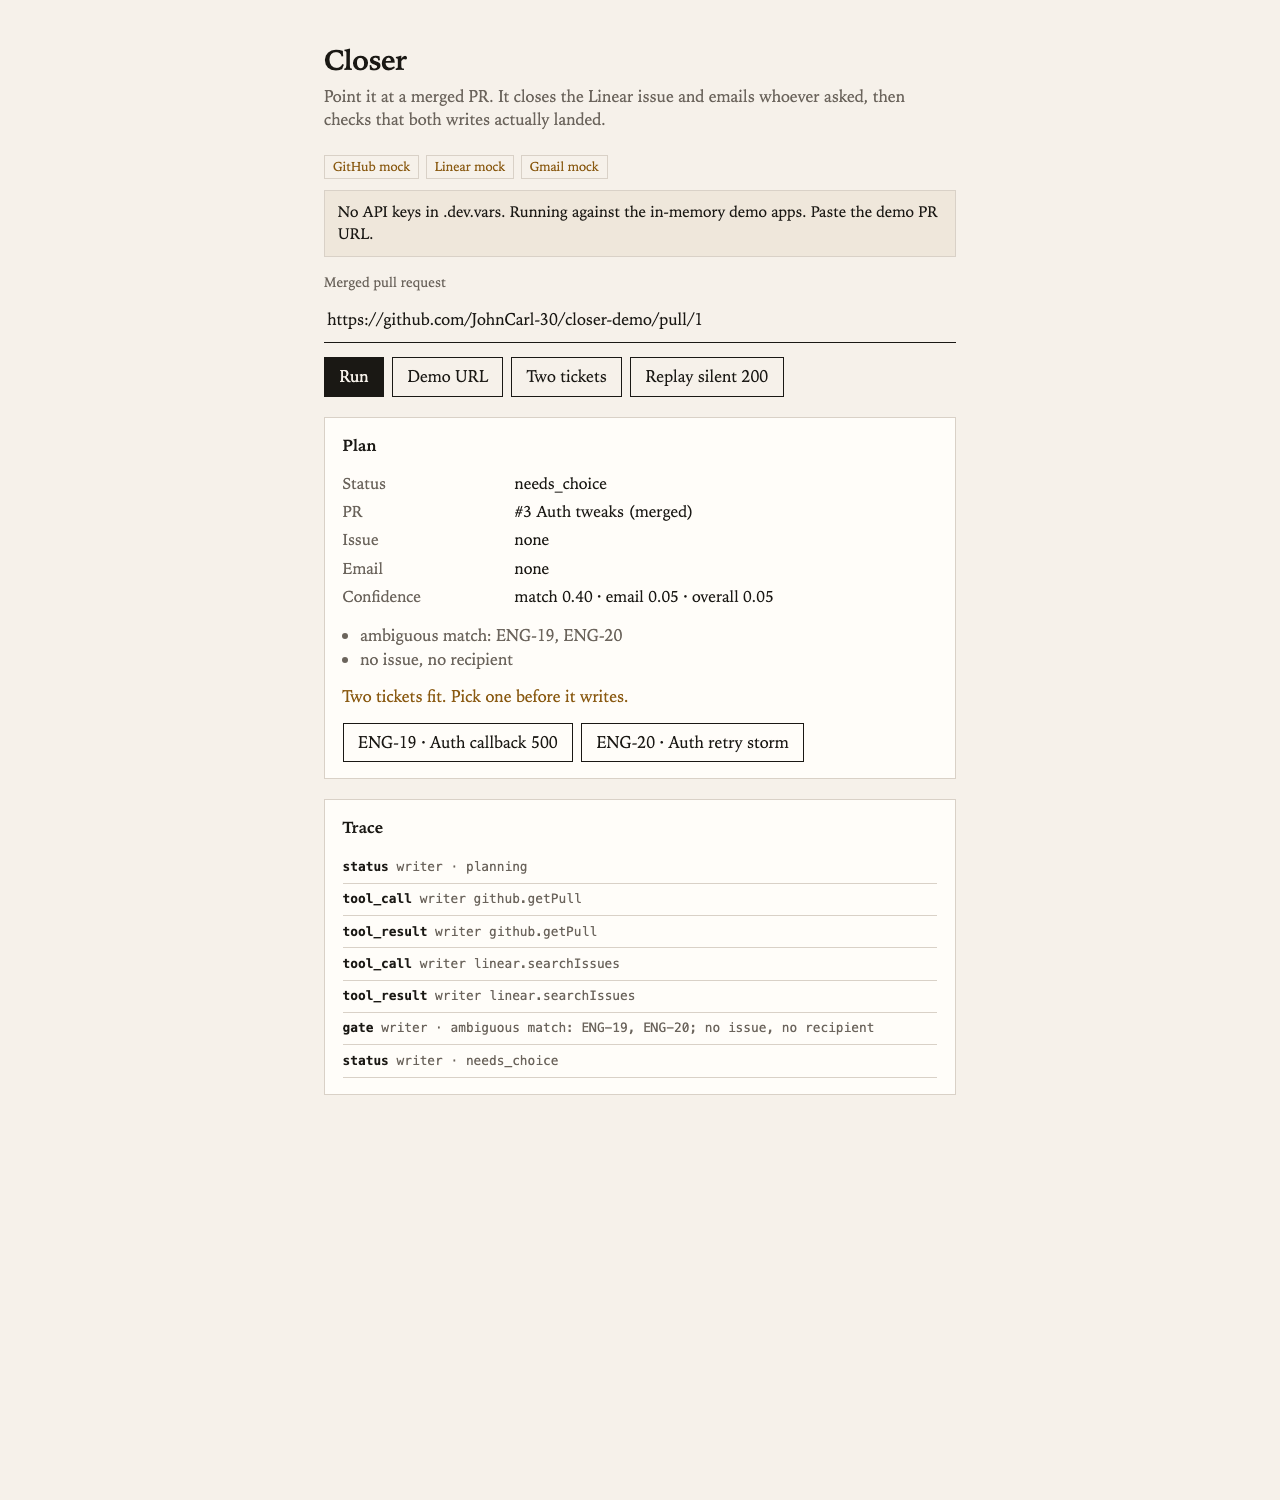
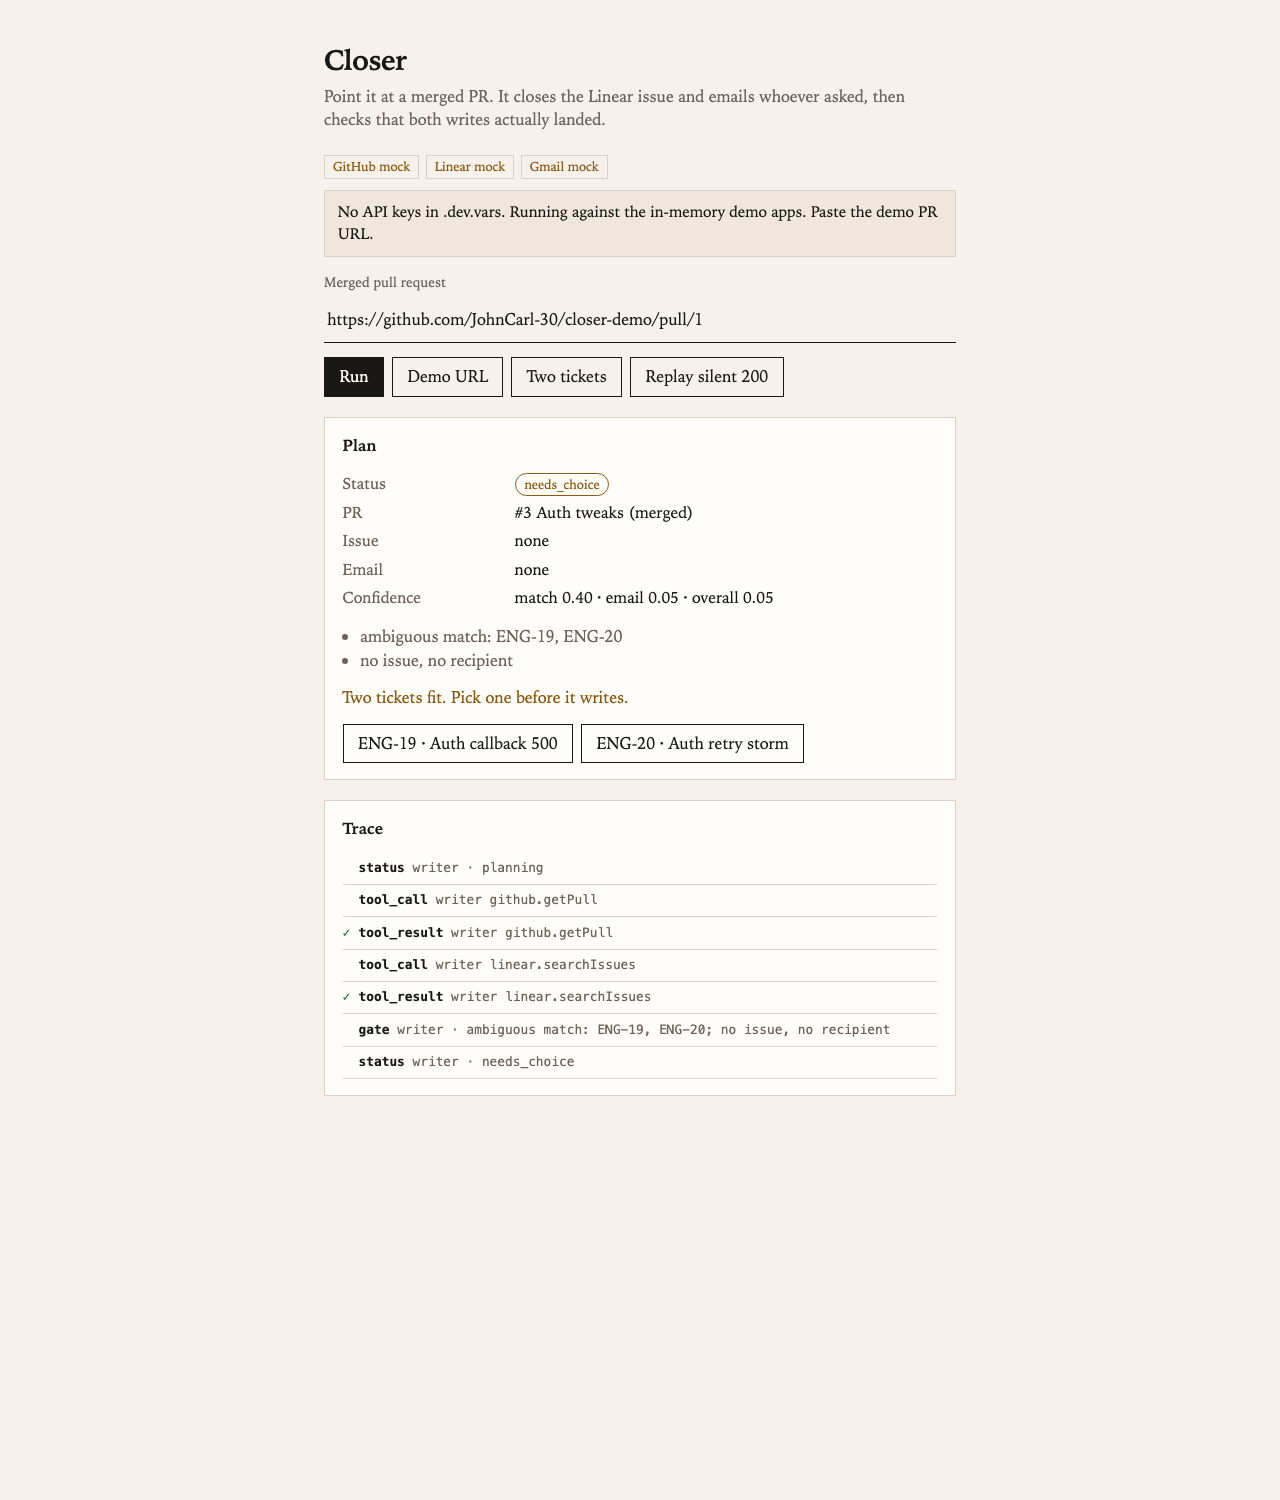
UI polish from Mobbin reference patterns
Benchmarked the plan/approve and trace views against agent-run and
approval screens on Mobbin (LangSmith, Braintrust, StackAI; Deel,
Vercel, Hex). Applied the three patterns present in essentially every
reference and missing here:

- Status renders as a colored pill (green done, red failed/rejected,
  amber awaiting/needs_choice/escalated) instead of plain text.
- The approve card enumerates the staged writes ("Staged - nothing is
  written until you approve") before the Approve/Reject buttons.
- Trace tool_result rows carry a green check or red cross.

README screenshots regenerated from the updated UI.

Claude-Session: https://claude.ai/code/session_01CVqj8ygCMhaFEF3PemqzXf

diff --git a/src/client.tsx b/src/client.tsx
@@ -119,7 +119,9 @@ function App() {
           <h2>Plan</h2>
           <dl className="kv">
             <dt>Status</dt>
-            <dd>{state.status}</dd>
+            <dd>
+              <span className={`pill st-${state.status}`}>{state.status}</span>
+            </dd>
             <dt>PR</dt>
             <dd>
               #{state.plan.pr.number} {state.plan.pr.title} (
@@ -161,6 +163,20 @@ function App() {
                   </button>
                 ))}
               </div>
+            </div>
+          ) : null}
+          {state.status === "awaiting_approval" && state.plan.issue ? (
+            <div className="writes">
+              <p>Staged — nothing is written until you approve:</p>
+              <ol>
+                <li>
+                  Linear {state.plan.issue.identifier} → Done
+                </li>
+                <li>Comment with the PR link</li>
+                {state.plan.email ? (
+                  <li>Email {state.plan.email.to}</li>
+                ) : null}
+              </ol>
             </div>
           ) : null}
           {state.status === "awaiting_approval" ? (
@@ -228,6 +244,13 @@ function App() {
           <ol className="trace">
             {state.traces.map((t, i) => (
               <li key={`${t.t}-${i}`}>
+                <span className="mark">
+                  {t.type === "tool_result" ? (
+                    <span className={t.ok ? "ok" : "no"}>
+                      {t.ok ? "\u2713" : "\u2717"}
+                    </span>
+                  ) : null}
+                </span>
                 <strong>{t.type}</strong>
                 {t.agent ? ` ${t.agent}` : ""}
                 {t.tool ? ` ${t.tool}` : ""}

diff --git a/src/styles.css b/src/styles.css
@@ -198,3 +198,54 @@ button:disabled {
   color: var(--ink);
   font-weight: 600;
 }
+
+.pill {
+  display: inline-block;
+  font-size: 0.8rem;
+  padding: 0.08rem 0.55rem;
+  border: 1px solid var(--line);
+  border-radius: 999px;
+  color: var(--muted);
+}
+
+.pill.st-done {
+  color: var(--good);
+  border-color: var(--good);
+}
+
+.pill.st-failed,
+.pill.st-rejected {
+  color: var(--bad);
+  border-color: var(--bad);
+}
+
+.pill.st-awaiting_approval,
+.pill.st-needs_choice,
+.pill.st-escalated {
+  color: var(--wait);
+  border-color: var(--wait);
+}
+
+.writes {
+  margin: 0.9rem 0 0;
+  padding: 0.6rem 0.8rem;
+  border: 1px solid var(--line);
+  background: var(--paper);
+  font-size: 0.95rem;
+}
+
+.writes p {
+  margin: 0 0 0.3rem;
+  color: var(--muted);
+  font-size: 0.85rem;
+}
+
+.writes ol {
+  margin: 0;
+  padding-left: 1.2rem;
+}
+
+.trace .mark {
+  display: inline-block;
+  width: 1rem;
+}
